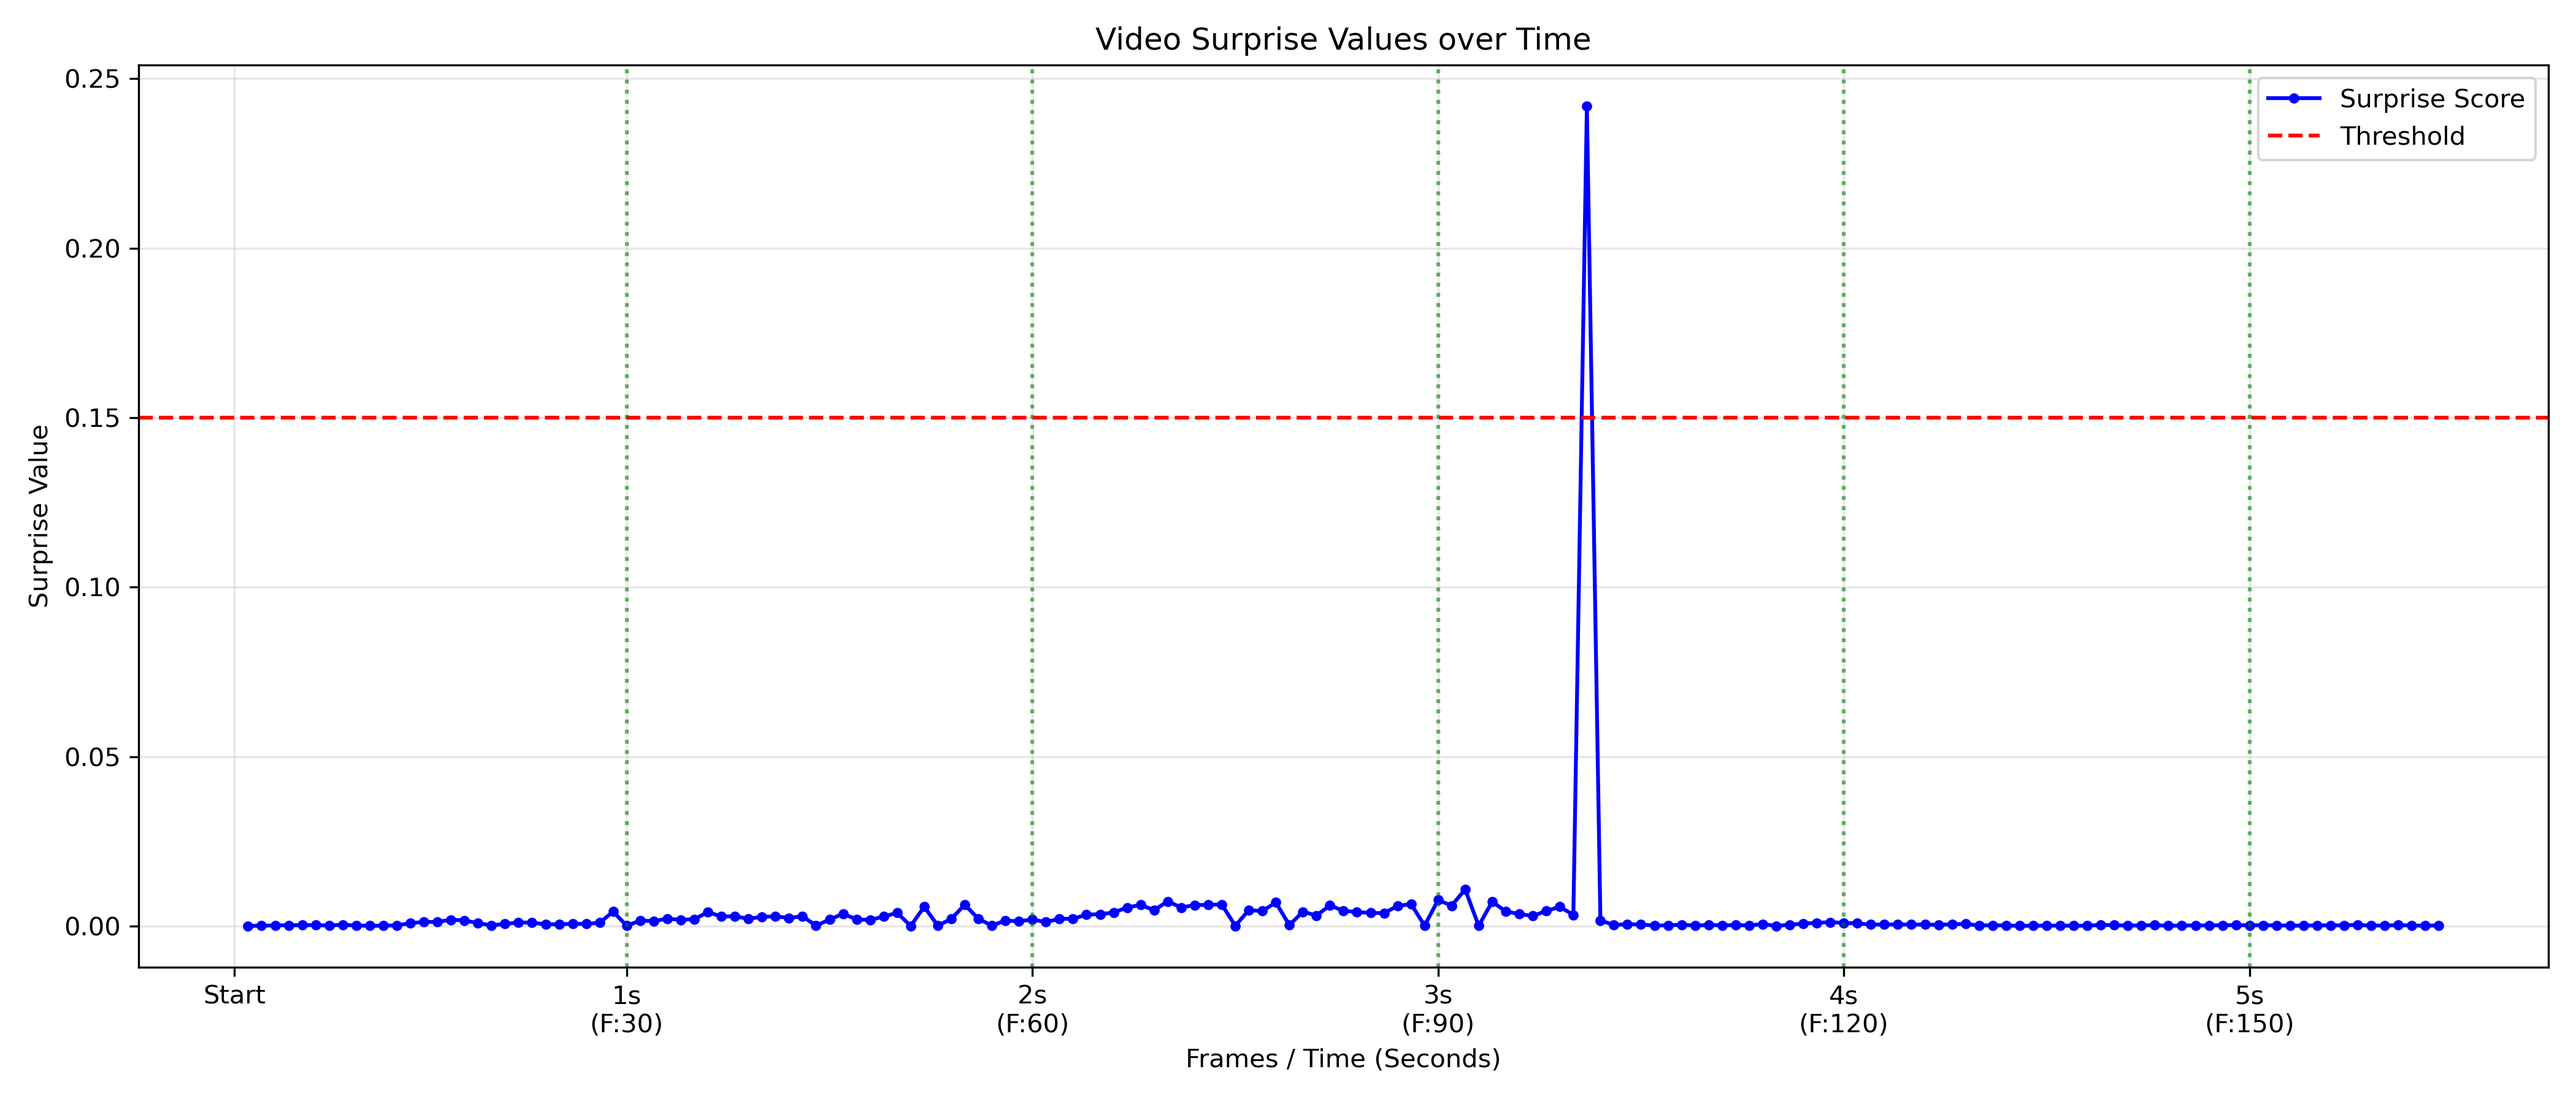
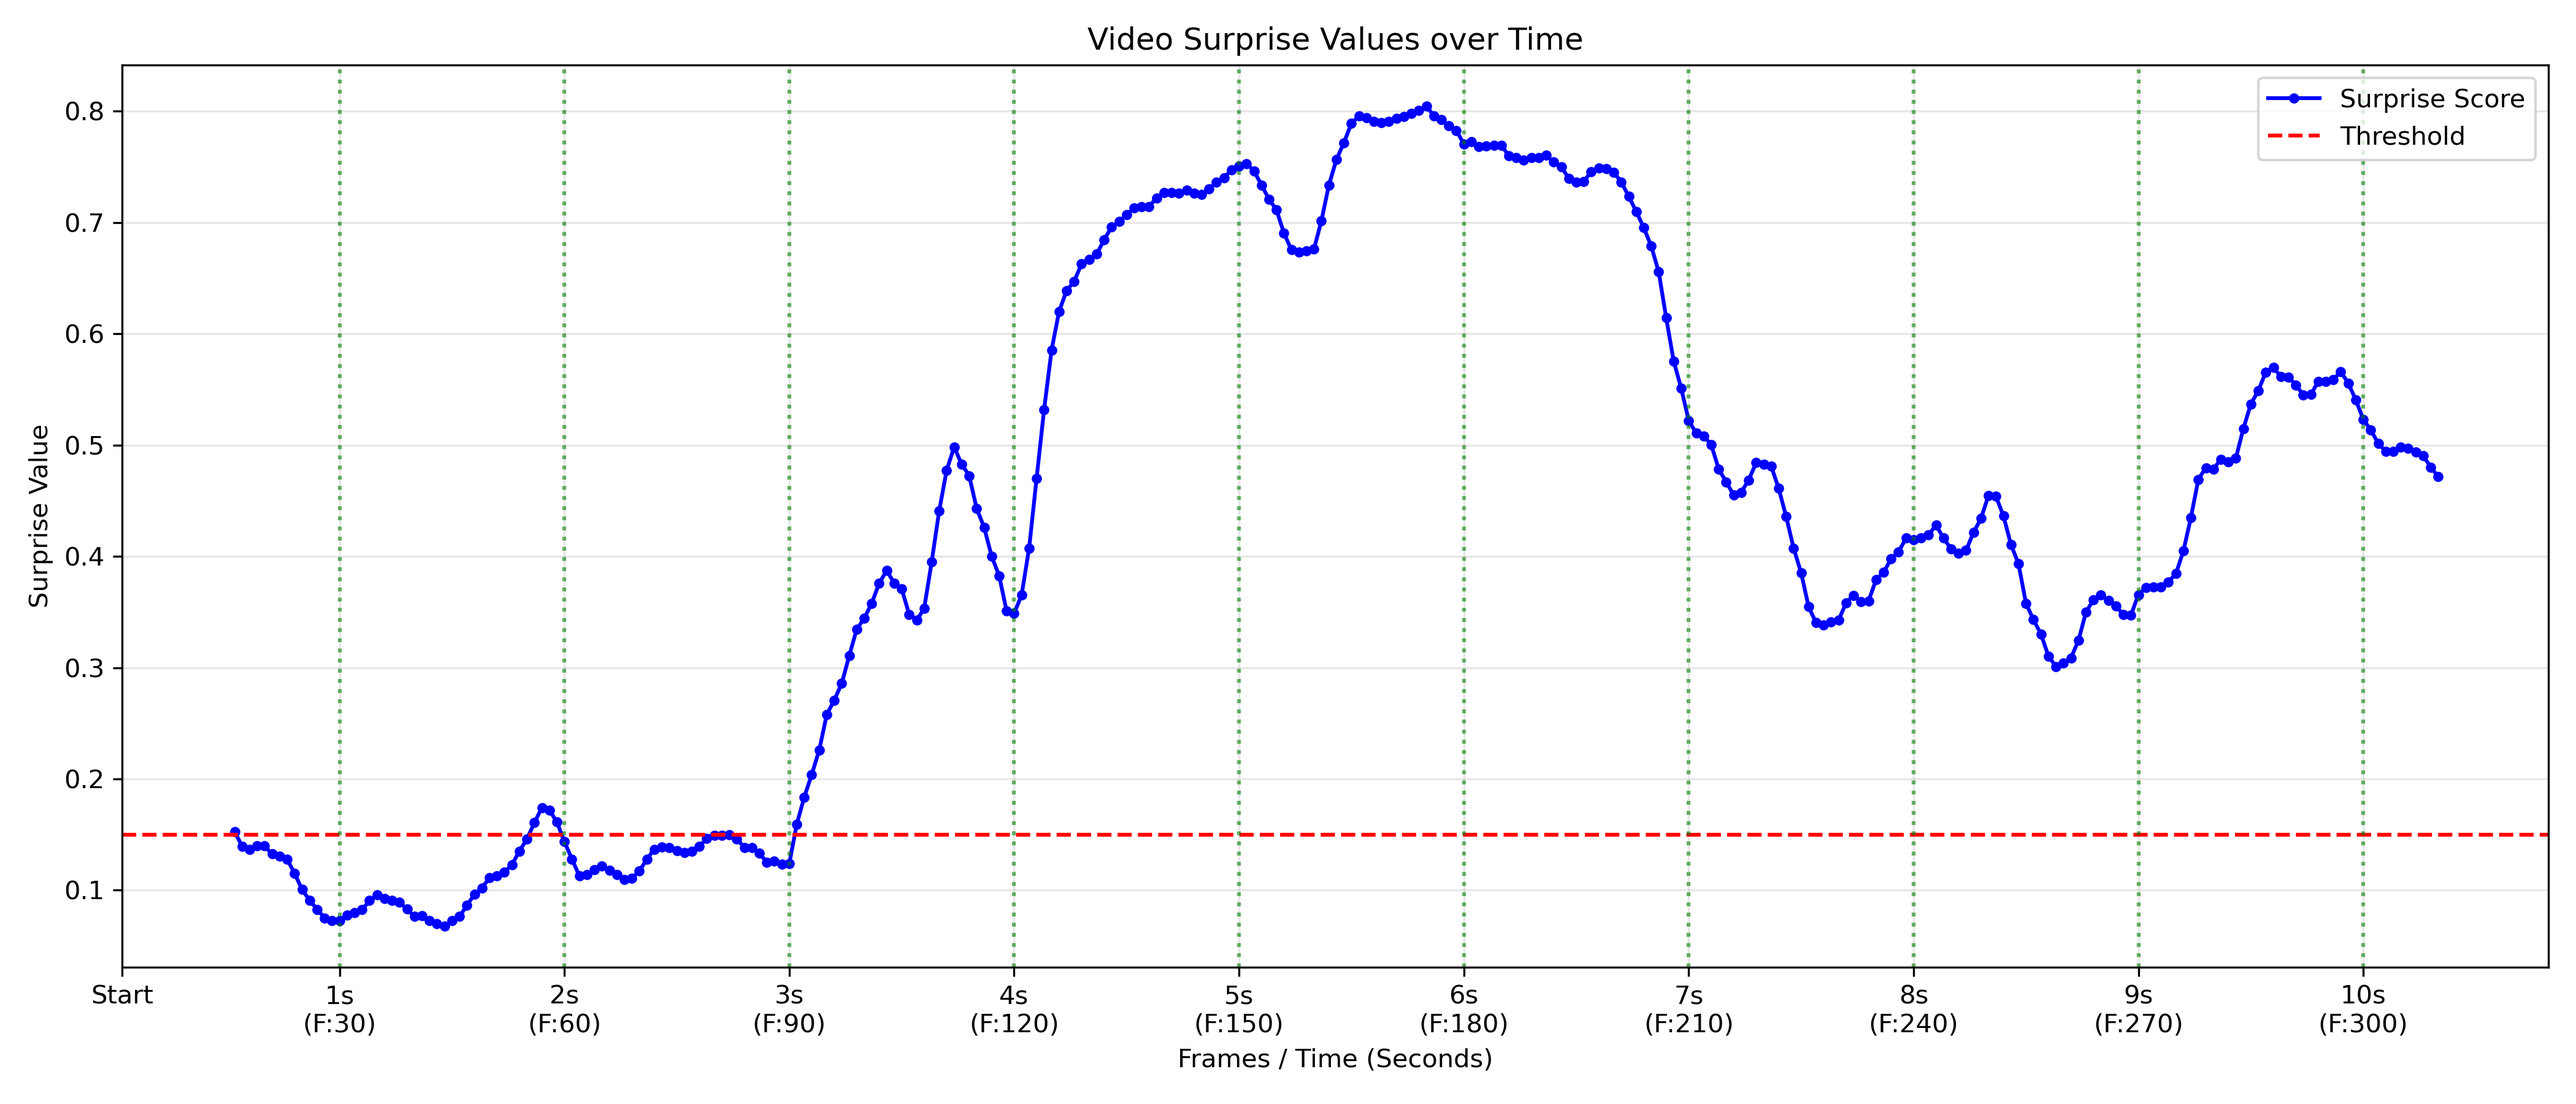
跟0.5s前对比

diff --git a/model/vision_encoder.py b/model/vision_encoder.py
@@ -5,6 +5,7 @@ import cv2
 from PIL import Image
 import matplotlib.pyplot as plt  # 引入绘图库
 import numpy as np               # 用于生成刻度
+import collections
 
 # load the model and processor
 ckpt = "google/siglip2-base-patch16-naflex"
@@ -12,20 +13,37 @@ device = "cuda" if torch.cuda.is_available() else "cpu"
 processor = AutoProcessor.from_pretrained(ckpt)
 model = AutoModel.from_pretrained(ckpt).to(device).eval()
 
-def extract_feature(image):
+def extract_feature_patch_level(image):
     inputs = processor(images=[image], return_tensors="pt").to(device)
     with torch.no_grad():
         image_features = model.get_image_features(**inputs)
-    # 取均值降维
-    feature = image_features.last_hidden_state.mean(dim=1).squeeze(0)
+    
+    # 关键修改：不要 mean()！
+    # 直接返回所有 patch 的特征，形状为 [num_patches, hidden_dim]
+    feature = image_features.last_hidden_state.squeeze(0) 
     return feature
 
-def surprise(f1, f2):
-    cos_sim = F.cosine_similarity(f1, f2, dim=0)
-    return 1 - cos_sim
+def surprise_patch_level(f1, f2):
+    # f1 和 f2 包含了图片各个局部的特征
+    # 计算每个对应位置 patch 的余弦相似度，dim=1 表示在特征维度上计算
+    cos_sim = F.cosine_similarity(f1, f2, dim=1) # 结果形状: [num_patches]
+    
+    # 计算每个 patch 的 surprise
+    surprise_per_patch = 1 - cos_sim
+    
+    # 策略 1：取变化最大的那个 patch 的值作为整体的 surprise
+    # max_surprise = torch.max(surprise_per_patch)
+    
+    # 策略 2（更稳定）：取变化最大的前 20% 的 patch 的平均值
+    # 避免单个噪点引发误判
+    k = max(1, int(len(surprise_per_patch) * 0.2))
+    topk_surprise, _ = torch.topk(surprise_per_patch, k)
+    score = torch.median(topk_surprise)
+    
+    return score
 
 ## 视频测试
-cap = cv2.VideoCapture(r"video/2.mp4")
+cap = cv2.VideoCapture(r"video/1.mp4")
 
 if not cap.isOpened():
     print("错误：无法打开视频文件！")
@@ -40,36 +58,54 @@ else:
 prev_feature = None
 threshold = 0.15
 
-frame_count = 0
+# 优化 2：扩大时间感受野（跳帧比对）
+# 不要和紧挨着的前一帧比，而是和 N 帧之前（比如半秒前）的帧比。
+# 这样水杯倒下的累积变化会很大，远超背景噪声。
+stride = int(fps * 0.5) if fps > 0 else 15  # 设置对比跨度为 0.5 秒
+feature_buffer = collections.deque(maxlen=stride)
 
-# 记录绘图所需的列表
+# 优化 3：一维平滑窗口（Moving Average）
+# 用来平滑最终的曲线，消除毛刺
+smooth_window = 5
+score_buffer = collections.deque(maxlen=smooth_window)
+
+frame_count = 0
 frame_indices = []
 surprise_scores = []
+smoothed_scores = [] # 用于记录平滑后的值
 
 while True:
     ret, frame = cap.read()
     if not ret:
-        print(f"读取完毕或失败！总读取帧数: {frame_count}")
         break
-    
     frame_count += 1
 
     img = Image.fromarray(cv2.cvtColor(frame, cv2.COLOR_BGR2RGB))
-    feature = extract_feature(img)
-
-    if prev_feature is not None:
-        score = surprise(feature, prev_feature)
-        val = score.item()
-        print(f"Frame {frame_count} - Surprise: {val:.4f}")
+    feature = extract_feature_patch_level(img)
+    
+    if len(feature_buffer) == stride:
+        # 和 0.5 秒前的特征进行对比
+        past_feature = feature_buffer[0]
+        score = surprise_patch_level(feature, past_feature).item()
         
-        # 保存到列表中用于绘图
+        # 将当前得分加入平滑窗口
+        score_buffer.append(score)
+        
+        # 计算滑动平均值作为最终的 Surprise 值
+        smoothed_score = np.mean(score_buffer)
+        
         frame_indices.append(frame_count)
-        surprise_scores.append(val)
+        surprise_scores.append(score) # 原始得分（可选画图）
+        smoothed_scores.append(smoothed_score) # 平滑得分（主要画图）
+        
+        print(f"Frame {frame_count} - Smoothed Surprise: {smoothed_score:.4f}")
 
-        if val > threshold:
+        if smoothed_score > threshold:
             print("=== CHUNK BOUNDARY ===")
+            # 触发边界后，可以选择清空 buffer，避免同一个动作连续触发
+            # feature_buffer.clear() 
 
-    prev_feature = feature
+    feature_buffer.append(feature)
 
 cap.release()
 
@@ -80,7 +116,7 @@ if len(frame_indices) > 0:
     plt.figure(figsize=(14, 6))
     
     # 绘制主曲线
-    plt.plot(frame_indices, surprise_scores, marker='.', linestyle='-', color='b', label='Surprise Score')
+    plt.plot(frame_indices, smoothed_scores, marker='.', linestyle='-', color='b', label='Surprise Score')
     plt.axhline(y=threshold, color='r', linestyle='--', label='Threshold')
 
     # 标记出每一秒的帧
